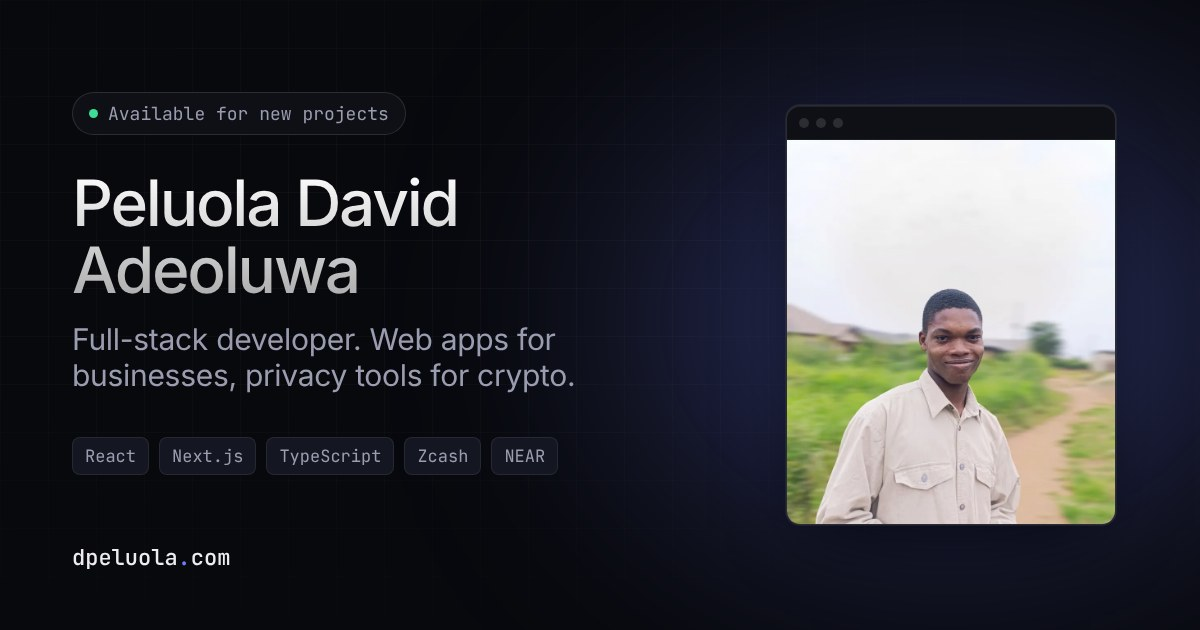
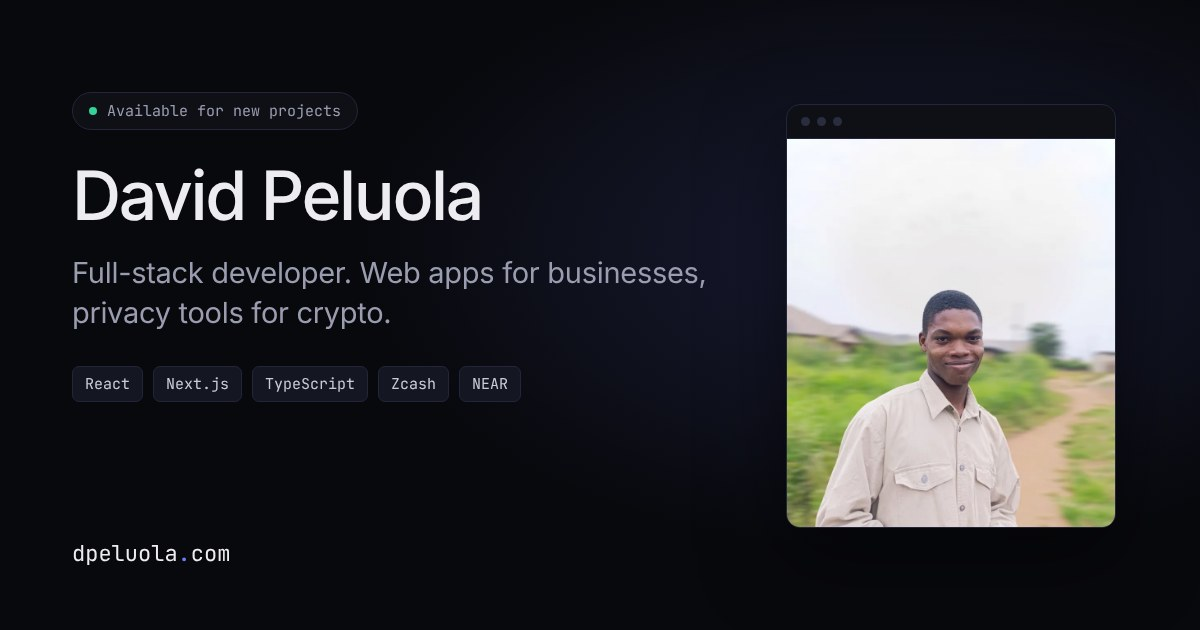
Pre-render the page, add analytics, 404 page, Telegram and writing
- Pre-render the full page at build time so crawlers and link previews get the content
- Vercel Web Analytics (cookie-free, same-origin, works with the CSP)
- Real 404 page with a 404 status instead of the homepage on every path
- Hijo Lux review on its case study card
- Telegram contact card and footer link, DEV article in About
- One name everywhere (David Peluola), description and share image updated
- Services copy matches the shown work (Parano1d, not Solana)

diff --git a/index.html b/index.html
@@ -6,13 +6,13 @@
     <meta name="viewport" content="width=device-width, initial-scale=1.0">
 
     <!-- Primary Meta Tags -->
-    <title>Peluola David Adeoluwa | Full-stack developer</title>
-    <meta name="title" content="Peluola David Adeoluwa | Full-stack developer">
+    <title>David Peluola | Full-stack developer</title>
+    <meta name="title" content="David Peluola | Full-stack developer">
     <meta name="description"
-        content="Full-stack developer in Nigeria. Fast web apps, stores and landing pages for businesses, and open-source privacy tools for Zcash and NEAR.">
+        content="Full-stack developer in Nigeria. Fast web apps, stores and landing pages for businesses, and open-source privacy tools for Zcash, NEAR and Parano1d.">
     <meta name="keywords"
-        content="Full-stack developer, React, Next.js, TypeScript, Web apps, E-commerce, Landing pages, Zcash, NEAR, Privacy tools, Nigeria">
-    <meta name="author" content="Peluola David Adeoluwa">
+        content="David Peluola, Peluola David Adeoluwa, Full-stack developer, React, Next.js, TypeScript, Web apps, E-commerce, Landing pages, Zcash, NEAR, Privacy tools, Nigeria">
+    <meta name="author" content="David Peluola">
     <meta name="robots" content="index, follow">
     <meta name="theme-color" content="#08090d">
     <meta name="color-scheme" content="dark">
@@ -21,20 +21,23 @@
     <!-- Open Graph / Facebook / WhatsApp -->
     <meta property="og:type" content="website">
     <meta property="og:url" content="https://www.dpeluola.com/">
-    <meta property="og:title" content="Peluola David Adeoluwa | Full-stack developer">
+    <meta property="og:title" content="David Peluola | Full-stack developer">
     <meta property="og:description"
-        content="Full-stack developer in Nigeria. Fast web apps, stores and landing pages for businesses, and open-source privacy tools for Zcash and NEAR.">
+        content="Full-stack developer in Nigeria. Fast web apps, stores and landing pages for businesses, and open-source privacy tools for Zcash, NEAR and Parano1d.">
     <meta property="og:image" content="https://www.dpeluola.com/og-image.jpg">
     <meta property="og:image:width" content="1200">
     <meta property="og:image:height" content="630">
+    <meta property="og:image:alt" content="David Peluola, full-stack developer. Web apps for businesses, privacy tools for crypto.">
+    <meta property="og:site_name" content="dpeluola.com">
 
     <!-- Twitter -->
     <meta name="twitter:card" content="summary_large_image">
     <meta name="twitter:url" content="https://www.dpeluola.com/">
-    <meta name="twitter:title" content="Peluola David Adeoluwa | Full-stack developer">
+    <meta name="twitter:title" content="David Peluola | Full-stack developer">
     <meta name="twitter:description"
-        content="Full-stack developer in Nigeria. Fast web apps, stores and landing pages for businesses, and open-source privacy tools for Zcash and NEAR.">
+        content="Full-stack developer in Nigeria. Fast web apps, stores and landing pages for businesses, and open-source privacy tools for Zcash, NEAR and Parano1d.">
     <meta name="twitter:image" content="https://www.dpeluola.com/og-image.jpg">
+    <meta name="twitter:creator" content="@0xdavee_">
 
     <!-- Favicon -->
     <link rel="icon" type="image/png" href="/favicon.png">
@@ -46,18 +49,22 @@
       {
         "@context": "https://schema.org",
         "@type": "Person",
-        "name": "Peluola David Adeoluwa",
+        "name": "David Peluola",
+        "alternateName": "Peluola David Adeoluwa",
         "url": "https://www.dpeluola.com",
         "sameAs": [
           "https://github.com/Adeolu05",
           "https://linkedin.com/in/david-peluola-6b45761b4",
           "https://x.com/0xdavee_",
-          "https://www.instagram.com/_dpeluola"
+          "https://www.instagram.com/_dpeluola",
+          "https://t.me/dpeluola",
+          "https://dev.to/dpeluola"
         ],
         "jobTitle": "Full-stack developer",
         "image": "https://www.dpeluola.com/profile.jpg",
         "email": "mailto:hello@dpeluola.com",
-        "knowsAbout": ["React", "Next.js", "TypeScript", "Node.js", "PostgreSQL", "Rust", "Zcash", "NEAR", "E-commerce"]
+        "knowsAbout": ["React", "Next.js", "TypeScript", "Node.js", "PostgreSQL", "Rust", "Zcash", "NEAR", "Parano1d", "E-commerce"],
+        "address": { "@type": "PostalAddress", "addressCountry": "NG" }
       }
       </script>
 </head>

diff --git a/src/components/sections/About.tsx b/src/components/sections/About.tsx
@@ -1,8 +1,8 @@
 import React from 'react';
-import { FileText } from 'lucide-react';
+import { ArrowUpRight, FileText } from 'lucide-react';
 import { PROFILE_IMAGE, RESUME_FILES } from '../../config/constants';
-import { STACK } from '../../config/content';
-import { Reveal } from '../common/ui';
+import { STACK, WRITING } from '../../config/content';
+import { ExternalLink, Reveal } from '../common/ui';
 
 const About: React.FC = () => (
     <section id="about" aria-labelledby="about-title" className="border-t border-line py-24 md:py-32">
@@ -50,6 +50,28 @@ const About: React.FC = () => (
                             </li>
                         ))}
                     </ul>
+                </div>
+
+                <div className="mt-8">
+                    <p className="font-mono text-[11.5px] uppercase tracking-[0.14em] text-faint">Writing</p>
+                    <ul className="mt-3 space-y-2">
+                        {WRITING.posts.map((p) => (
+                            <li key={p.url}>
+                                <ExternalLink href={p.url} className="card card-hover flex items-start justify-between gap-4 p-4">
+                                    <span>
+                                        <span className="block text-[15px] font-medium leading-snug text-ink">{p.title}</span>
+                                        <span className="mt-1 block font-mono text-[12px] text-faint">
+                                            DEV · {p.date} · {p.minutes} min read
+                                        </span>
+                                    </span>
+                                    <ArrowUpRight className="mt-0.5 h-4 w-4 shrink-0 text-faint" aria-hidden />
+                                </ExternalLink>
+                            </li>
+                        ))}
+                    </ul>
+                    <ExternalLink href={WRITING.profile} className="mt-3 inline-flex items-center gap-1 text-[14px] text-muted hover:text-ink">
+                        All posts on DEV <ArrowUpRight className="h-3.5 w-3.5" aria-hidden />
+                    </ExternalLink>
                 </div>
 
                 <div className="mt-8 flex flex-wrap gap-3">

diff --git a/src/components/NotFound.tsx b/src/components/NotFound.tsx
@@ -1,0 +1,44 @@
+import React from 'react';
+import { ArrowLeft } from 'lucide-react';
+import { NAV_ITEMS } from '../config/constants';
+
+/** Static 404 page, pre-rendered to dist/404.html. Links are absolute because it can show on any path. */
+const NotFound: React.FC = () => (
+    <main id="main" className="flex min-h-screen flex-col">
+        <header className="border-b border-line">
+            <div className="container-site flex h-16 items-center">
+                <a href="/" className="font-mono text-[14px] font-medium text-ink">
+                    dpeluola<span className="text-accent">.</span>com
+                </a>
+            </div>
+        </header>
+        <div className="container-site flex flex-1 flex-col items-start justify-center py-24">
+            <div className="frame w-full max-w-xl p-6 font-mono text-[13.5px] leading-7 sm:p-8">
+                <p>
+                    <span className="text-accent">$</span> <span className="text-ink">cd ./this-page</span>
+                </p>
+                <p className="text-danger">cd: no such file or directory (404)</p>
+            </div>
+            <h1 className="mt-10 text-[clamp(2rem,5vw,3rem)] font-medium leading-[1.1] tracking-[-0.03em] text-ink">Page not found.</h1>
+            <p className="mt-4 max-w-md text-[16px] leading-relaxed text-muted">
+                The link may be old or mistyped. Everything lives on one page, so start there.
+            </p>
+            <a href="/" className="btn-primary mt-8">
+                <ArrowLeft className="h-4 w-4" aria-hidden /> Back to dpeluola.com
+            </a>
+            <nav aria-label="Sections" className="mt-10">
+                <ul className="flex flex-wrap gap-x-5 gap-y-2">
+                    {NAV_ITEMS.map((i) => (
+                        <li key={i.href}>
+                            <a href={`/${i.href}`} className="text-[14px] text-muted hover:text-ink">
+                                {i.label}
+                            </a>
+                        </li>
+                    ))}
+                </ul>
+            </nav>
+        </div>
+    </main>
+);
+
+export default NotFound;

diff --git a/src/config/content.ts b/src/config/content.ts
@@ -108,6 +108,8 @@ export interface FeaturedProject {
     video?: { src: string; poster: string };
     stack: string[];
     caseStudy?: CaseStudy;
+    /** Verbatim client review shown on the card */
+    quote?: { text: string; name: string; source: string };
 }
 
 export const FEATURED: FeaturedProject[] = [
@@ -136,6 +138,11 @@ export const FEATURED: FeaturedProject[] = [
         img: '/images/work/hijo-hijolux.webp',
         video: { src: '/videos/work/hijolux.mp4', poster: '/videos/work/hijolux-poster.webp' },
         stack: ['Next.js', 'TypeScript', 'Sanity CMS', 'WhatsApp'],
+        quote: {
+            text: 'One of the best out there, very composed with attention to details. I recommend any day.',
+            name: 'Hijo Lux Watches',
+            source: 'Google review',
+        },
         caseStudy: {
             problem:
                 'Hijo Lux sells authenticated luxury watches, many priced in six figures, to buyers across Nigeria and the UAE. Buyers needed reasons to trust the dealer before sending a message, and the team needed to change stock and prices often without waiting on a developer.',
@@ -251,7 +258,7 @@ export const SERVICES = [
     },
     {
         title: 'Crypto tooling',
-        body: 'Wallet UX, Telegram bots, dashboards and on-chain checks for Zcash, NEAR and Solana teams.',
+        body: 'Wallet UX, Telegram bots, dashboards and on-chain checks for Zcash, NEAR and Parano1d teams.',
         stack: 'TypeScript · Rust · Node',
     },
 ];
@@ -264,3 +271,16 @@ export const PROCESS = [
 ];
 
 export const STACK = ['React', 'Next.js', 'TypeScript', 'Node.js', 'Postgres', 'Python', 'Rust (NEAR)', 'Tailwind', 'Sanity', 'WooCommerce', 'Vercel', 'Railway'];
+
+/** Verified on dev.to/api/articles?username=dpeluola */
+export const WRITING = {
+    profile: 'https://dev.to/dpeluola',
+    posts: [
+        {
+            title: 'Can you withdraw shielded ZEC? I tested 4 big services. None can.',
+            url: 'https://dev.to/dpeluola/can-you-withdraw-shielded-zec-i-tested-4-big-services-none-can-2jek',
+            date: '16 Nov 2026',
+            minutes: 2,
+        },
+    ],
+};

diff --git a/src/components/sections/Contact.tsx b/src/components/sections/Contact.tsx
@@ -2,6 +2,7 @@ import React, { useState } from 'react';
 import { ArrowRight, CalendarDays, CheckCircle2, Github, Instagram, Linkedin, Mail } from 'lucide-react';
 import { CONTACT_INFO, CONTACT_PRIVACY_NOTE, SOCIAL_LINKS } from '../../config/constants';
 import XIcon from '../common/XIcon';
+import TelegramIcon from '../common/TelegramIcon';
 import { ExternalLink, Reveal } from '../common/ui';
 
 const PROJECT_TYPES = ['Landing page', 'Web app', 'E-commerce store', 'Business website', 'Crypto / Web3 tooling', 'Other'];
@@ -84,6 +85,15 @@ const Contact: React.FC = () => {
                                 <span className="block break-all text-[15px] font-medium text-ink">{CONTACT_INFO.email}</span>
                             </span>
                         </a>
+                        <ExternalLink href={SOCIAL_LINKS.telegram} className="card card-hover flex items-center gap-4 p-4">
+                            <span className="flex h-10 w-10 items-center justify-center rounded-lg border border-line bg-raised text-accent">
+                                <TelegramIcon className="h-5 w-5" />
+                            </span>
+                            <span>
+                                <span className="block text-[13px] text-faint">Telegram</span>
+                                <span className="block text-[15px] font-medium text-ink">@dpeluola</span>
+                            </span>
+                        </ExternalLink>
                         <ExternalLink href={CONTACT_INFO.bookingUrl} className="card card-hover flex items-center gap-4 p-4">
                             <span className="flex h-10 w-10 items-center justify-center rounded-lg border border-line bg-raised text-accent">
                                 <CalendarDays className="h-5 w-5" aria-hidden />

diff --git a/src/components/layout/Footer.tsx b/src/components/layout/Footer.tsx
@@ -59,6 +59,11 @@ const Footer: React.FC = () => (
                         </ExternalLink>
                     </li>
                     <li>
+                        <ExternalLink href={SOCIAL_LINKS.telegram} className="text-[14px] text-muted hover:text-ink">
+                            Telegram @dpeluola
+                        </ExternalLink>
+                    </li>
+                    <li>
                         <ExternalLink href={SOCIAL_LINKS.github} className="text-[14px] text-muted hover:text-ink">
                             GitHub
                         </ExternalLink>
@@ -68,12 +73,17 @@ const Footer: React.FC = () => (
                             LinkedIn
                         </ExternalLink>
                     </li>
+                    <li>
+                        <ExternalLink href={SOCIAL_LINKS.dev} className="text-[14px] text-muted hover:text-ink">
+                            DEV
+                        </ExternalLink>
+                    </li>
                 </ul>
             </div>
         </div>
         <div className="border-t border-line">
             <p className="container-site py-6 font-mono text-[12px] text-faint">
-                © {new Date().getFullYear()} {CONTACT_INFO.label}
+                <span suppressHydrationWarning>© {new Date().getFullYear()}</span> {CONTACT_INFO.label}
             </p>
         </div>
     </footer>

diff --git a/src/index.tsx b/src/index.tsx
@@ -1,24 +1,27 @@
-
 import React from 'react';
 import ReactDOM from 'react-dom/client';
-import { HelmetProvider } from 'react-helmet-async';
-import { MotionConfig } from 'framer-motion';
+import { inject } from '@vercel/analytics';
 import './index.css';
-import App from './App';
+import Root from './Root';
 
 const rootElement = document.getElementById('root');
 if (!rootElement) {
-  throw new Error("Could not find root element to mount to");
+    throw new Error('Could not find root element to mount to');
 }
 
-const root = ReactDOM.createRoot(rootElement);
-root.render(
-  <React.StrictMode>
-    <HelmetProvider>
-      {/* Honour the OS "reduce motion" setting for every framer-motion animation */}
-      <MotionConfig reducedMotion="user">
-        <App />
-      </MotionConfig>
-    </HelmetProvider>
-  </React.StrictMode>
+const app = (
+    <React.StrictMode>
+        <Root />
+    </React.StrictMode>
 );
+
+// The build pre-renders the page into #root (scripts/prerender.mjs), so attach to that markup.
+// The dev server serves an empty #root, so render from scratch there.
+if (rootElement.hasChildNodes()) {
+    ReactDOM.hydrateRoot(rootElement, app);
+} else {
+    ReactDOM.createRoot(rootElement).render(app);
+}
+
+// Vercel Web Analytics: cookie-free page views, loaded from this site's own origin (/_vercel/insights).
+inject();

diff --git a/src/components/sections/Work.tsx b/src/components/sections/Work.tsx
@@ -77,6 +77,15 @@ const FeaturedCard: React.FC<{ project: FeaturedProject; delay: number }> = ({ p
                     ))}
                 </div>
 
+                {project.quote && (
+                    <figure className="mt-5 rounded-lg border border-line bg-raised/60 px-4 py-3">
+                        <blockquote className="text-[14px] leading-relaxed text-ink">&ldquo;{project.quote.text}&rdquo;</blockquote>
+                        <figcaption className="mt-2 font-mono text-[11.5px] text-faint">
+                            {project.quote.name}, {project.quote.source}
+                        </figcaption>
+                    </figure>
+                )}
+
                 {project.caseStudy && (
                     <details className="group mt-5 rounded-lg border border-line">
                         <summary className="flex cursor-pointer list-none items-center justify-between px-4 py-3 text-[14px] text-ink [&::-webkit-details-marker]:hidden">

diff --git a/src/components/common/TelegramIcon.tsx b/src/components/common/TelegramIcon.tsx
@@ -1,0 +1,9 @@
+import React from 'react';
+
+const TelegramIcon: React.FC<{ className?: string }> = ({ className }) => (
+    <svg viewBox="0 0 24 24" aria-hidden="true" className={className} fill="currentColor">
+        <path d="M11.944 0A12 12 0 0 0 0 12a12 12 0 0 0 12 12 12 12 0 0 0 12-12A12 12 0 0 0 12 0a12 12 0 0 0-.056 0zm4.962 7.224c.1-.002.321.023.465.14a.506.506 0 0 1 .171.325c.016.093.036.306.02.472-.18 1.898-.962 6.502-1.36 8.627-.168.9-.499 1.201-.82 1.23-.696.065-1.225-.46-1.9-.902-1.056-.693-1.653-1.124-2.678-1.8-1.185-.78-.417-1.21.258-1.91.177-.184 3.247-2.977 3.307-3.23.007-.032.014-.15-.056-.212s-.174-.041-.249-.024c-.106.024-1.793 1.14-5.061 3.345-.48.33-.913.49-1.302.48-.428-.008-1.252-.241-1.865-.44-.752-.245-1.349-.374-1.297-.789.027-.216.325-.437.893-.663 3.498-1.524 5.83-2.529 6.998-3.014 3.332-1.386 4.025-1.627 4.476-1.635z" />
+    </svg>
+);
+
+export default TelegramIcon;

diff --git a/src/config/constants.ts b/src/config/constants.ts
@@ -14,11 +14,13 @@ export const SOCIAL_LINKS = {
     github: "https://github.com/Adeolu05",
     twitter: "https://x.com/0xdavee_",
     instagram: "https://www.instagram.com/_dpeluola",
+    telegram: "https://t.me/dpeluola",
+    dev: "https://dev.to/dpeluola",
 };
 
 export const CONTACT_INFO = {
     email: "hello@dpeluola.com",
-    label: "Peluola David Adeoluwa",
+    label: "David Peluola",
     shortName: "P.D.A",
     domain: "dpeluola.com",
     websiteUrl: "https://www.dpeluola.com",

diff --git a/src/App.tsx b/src/App.tsx
@@ -1,6 +1,5 @@
 import React from 'react';
 import MainLayout from './components/layout/MainLayout';
-import SEO from './components/common/SEO';
 import Hero from './components/sections/Hero';
 import Tools from './components/sections/Tools';
 import Work from './components/sections/Work';
@@ -15,7 +14,6 @@ import Contact from './components/sections/Contact';
  */
 const App: React.FC = () => (
     <MainLayout>
-        <SEO />
         <Hero />
         <Work />
         <Tools />

diff --git a/src/Root.tsx b/src/Root.tsx
@@ -1,0 +1,13 @@
+import React from 'react';
+import { MotionConfig } from 'framer-motion';
+import App from './App';
+
+/** Shared by the browser entry and the build-time pre-render, so both produce the same markup. */
+const Root: React.FC = () => (
+    // Honour the OS "reduce motion" setting for every framer-motion animation
+    <MotionConfig reducedMotion="user">
+        <App />
+    </MotionConfig>
+);
+
+export default Root;
